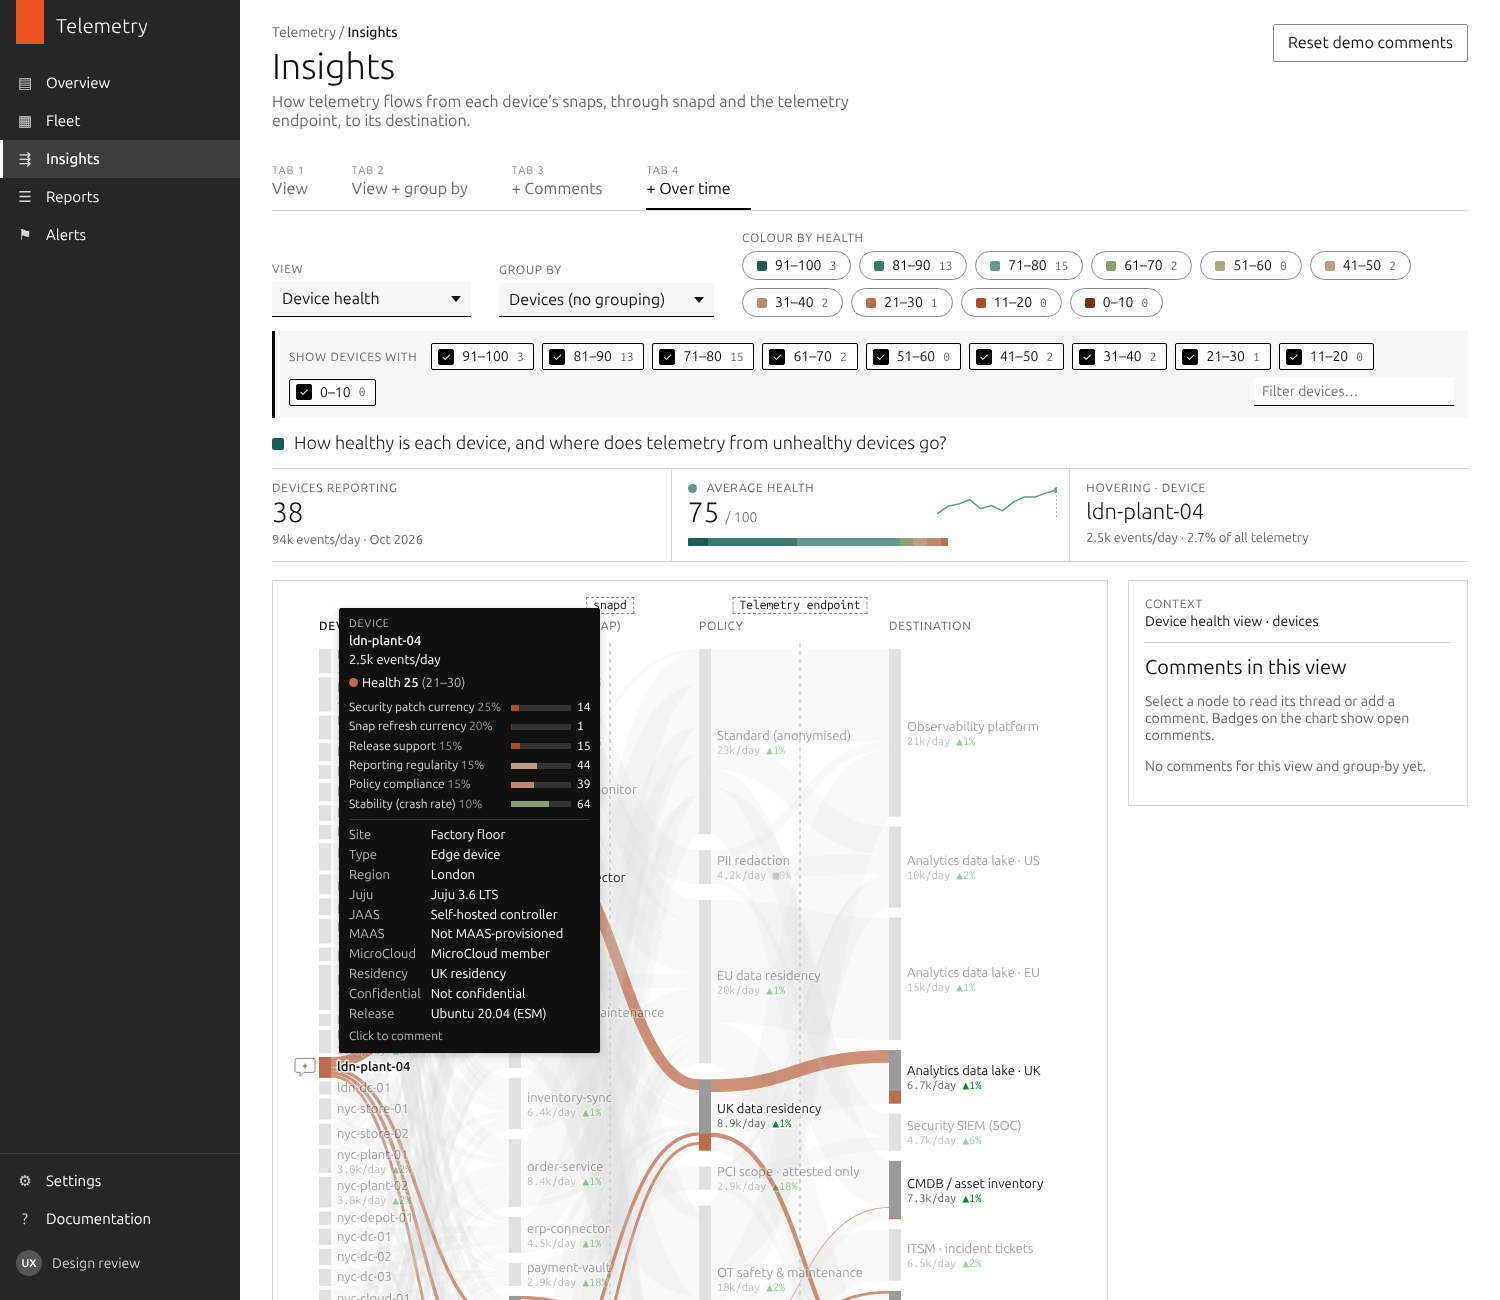
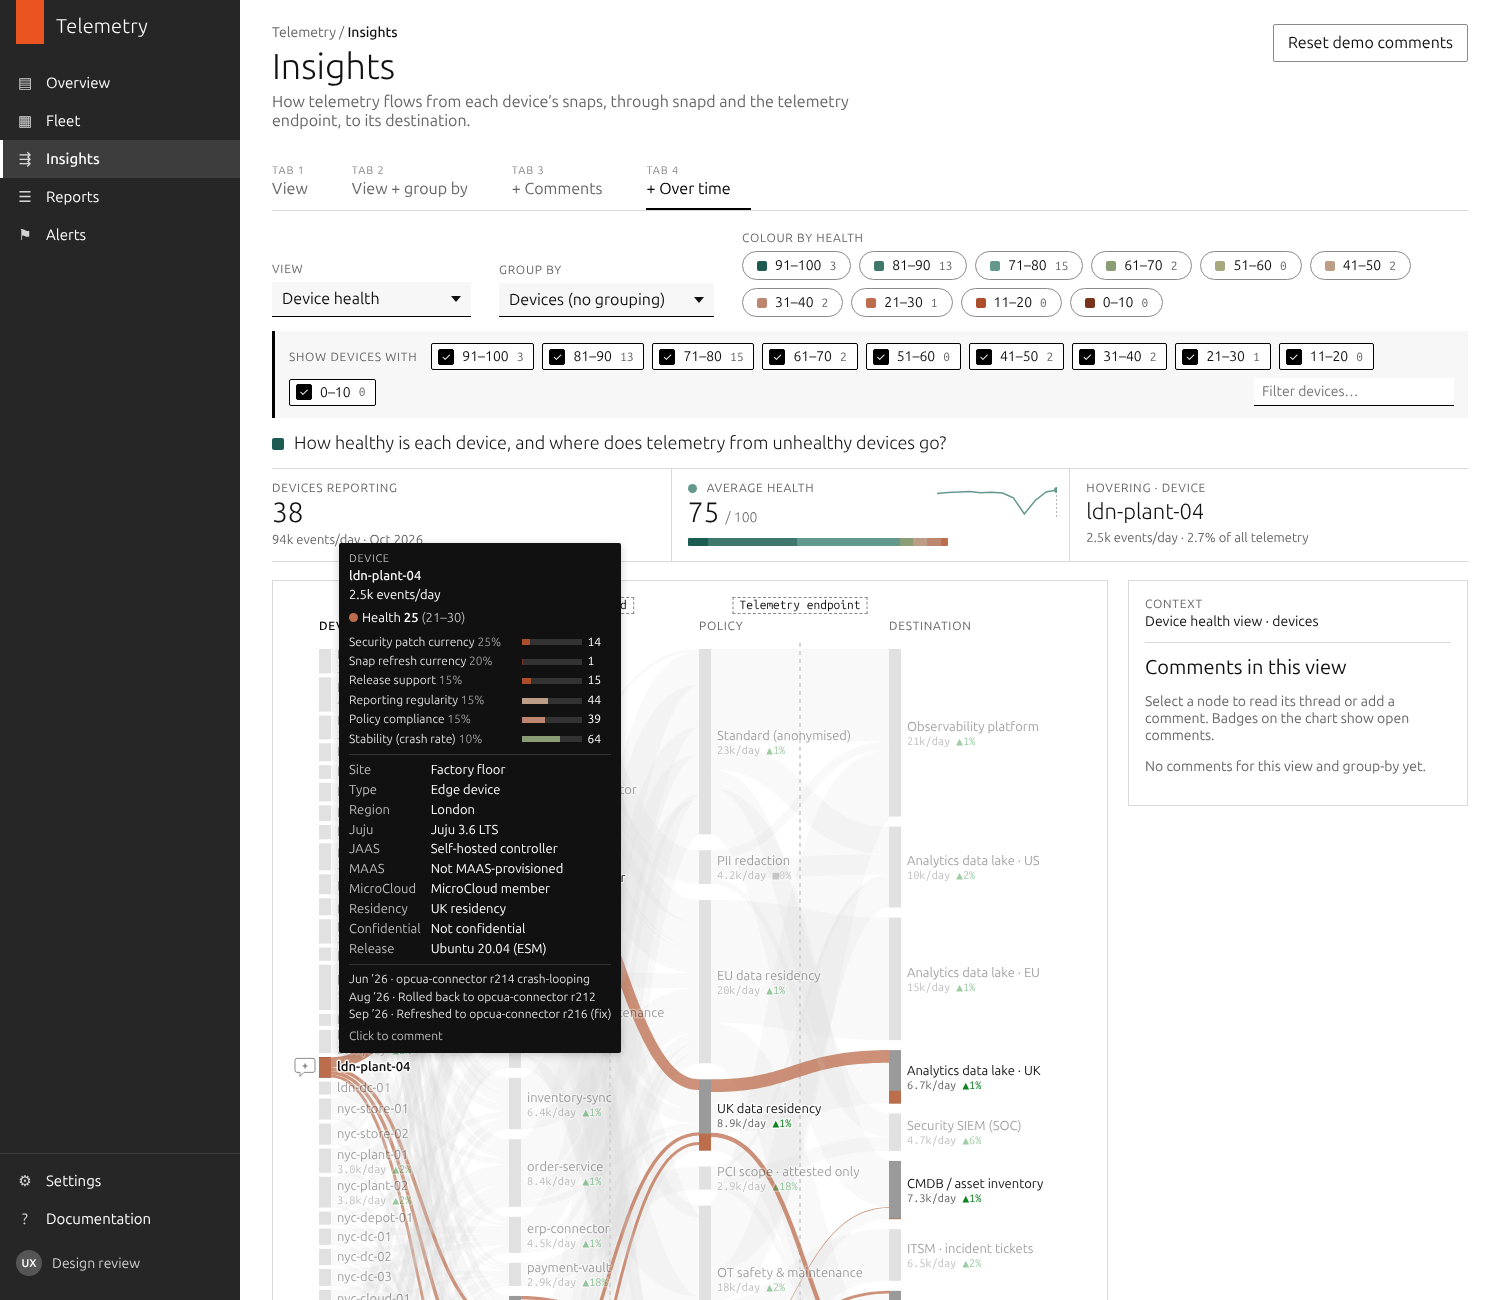
Add a health incident (Jun-Sep 2026) and an SRE comment thread
A bad opcua-connector revision crash-loops on factory devices in June;
a fleet-wide snap refresh hold drags health down everywhere in July
(fleet average 73 -> 56, factories 69 -> 39); factories are rolled back
in August and a fixed revision ships in September. Factory devices log
the events in their history, opcua-connector volume dips accordingly,
and two SREs discuss and close the incident in a thread pinned to those
months (Health view, grouped by Site, Factory floor).

Claude-Session: https://claude.ai/code/session_0156BKrAD5wHGfcWHmuamSMf

Changed region(s): [[0.2147, 0.4, 0.4293, 0.8308], [0.644, 0.3692, 0.7053, 0.4]]

diff --git a/js/comments.js b/js/comments.js
@@ -20,9 +20,28 @@
  */
 (function (TL) {
   'use strict';
-  const KEY = 'tl.insights.comments.v8';
+  const KEY = 'tl.insights.comments.v9';
 
   const SEED = [
+    // SRE incident thread (Health view, grouped by Site, on Factory floor)
+    { anchor: { view: 'health', groupBy: 'site', node: 'site:factory', period: '2026-06' }, createdAt: '2026-06-17T08:42:00Z',
+      author: 'Ana Ribeiro · SRE', body: 'Factory health is falling fast: stability is near zero on most plants and opcua-connector telemetry has halved. Started right after opcua-connector r214 hit stable on Monday. Paging plant IT.' },
+    { anchor: { view: 'health', groupBy: 'site', node: 'site:factory', period: '2026-06' }, createdAt: '2026-06-17T09:15:00Z',
+      author: 'Tom Okafor · SRE', body: 'Confirmed: r214 segfaults on the older PLC firmware, so it’s crash-looping on ldn and sgp plants first. I’ve put a fleet-wide snap refresh hold in place until we know the blast radius.' },
+    { anchor: { view: 'health', groupBy: 'site', node: 'site:factory', period: '2026-07' }, createdAt: '2026-07-08T13:30:00Z',
+      author: 'Ana Ribeiro · SRE', body: 'The hold is hurting now. Snap refresh and patch currency are sliding on every site, not just factories: fleet average is down to 56 from 73. Factories are at 39. We can’t keep a blanket hold much longer.' },
+    { anchor: { view: 'health', groupBy: 'site', node: 'site:factory', period: '2026-07' }, createdAt: '2026-07-08T14:05:00Z',
+      author: 'Tom Okafor · SRE', body: 'Agreed. Plan: pin factories back to r212 with a channel override, then lift the hold for everything except opcua-connector. Rolling back fra-plant-01 first as a canary.' },
+    { anchor: { view: 'health', groupBy: 'site', node: 'site:factory', period: '2026-08' }, createdAt: '2026-08-04T10:20:00Z',
+      author: 'Tom Okafor · SRE', body: 'Rollback to r212 is done on all plants. Stability is back above 70 and the reporting gaps have closed. Hold lifted for every other snap.' },
+    { anchor: { view: 'health', groupBy: 'site', node: 'site:factory', period: '2026-08' }, createdAt: '2026-08-05T09:00:00Z',
+      author: 'Ana Ribeiro · SRE', body: 'Vendor has a fix in r216 on the candidate channel. Running it on fra-plant-01 for two weeks before we promote.' },
+    { anchor: { view: 'health', groupBy: 'site', node: 'site:factory', period: '2026-09' }, createdAt: '2026-09-11T15:40:00Z',
+      author: 'Ana Ribeiro · SRE', body: 'r216 has been clean on the canary for two weeks; promoted to all plants. Factory health is back to 69, the same as before the incident.' },
+    { anchor: { view: 'health', groupBy: 'site', node: 'site:factory', period: '2026-09' }, createdAt: '2026-09-11T16:02:00Z',
+      author: 'Tom Okafor · SRE', body: 'Follow-up from the review: opcua-connector refreshes now go to one canary plant first, with a 7-day soak before the rest. Closing this out.' },
+    { anchor: { view: 'health', groupBy: 'health', node: 'health:31-40', period: '2026-07' }, createdAt: '2026-07-08T13:45:00Z',
+      author: 'Ana Ribeiro · SRE', body: 'Most of this band in July is the opcua-connector incident on factory devices. The full thread is under Group by: Site → Factory floor.' },
     { anchor: { view: 'health', groupBy: 'health', node: 'health:21-30', period: null },
       author: 'Plant IT · London', body: 'This is ldn-plant-04: still on 20.04 and unpatched since the line was retooled. Booked for rebuild next month.' },
     { anchor: { view: 'juju', groupBy: 'juju', node: 'juju:2.9', period: null },

diff --git a/js/data.js b/js/data.js
@@ -323,7 +323,24 @@ window.TL = window.TL || {};
       noise: r
     };
     d.health.noiseByMonth = MONTHS.map(function () { return (d.health.noise() - 0.5) * 8; });
+    if (d.attrs.site === 'factory') {
+      d.changes.push({ month: 7, attrs: {}, note: 'opcua-connector r214 crash-looping' });
+      d.changes.push({ month: 9, attrs: {}, note: 'Rolled back to opcua-connector r212' });
+      d.changes.push({ month: 10, attrs: {}, note: 'Refreshed to opcua-connector r216 (fix)' });
+      d.changes.sort(function (x, y) { return x.month - y.month; });
+    }
   });
+
+  // ---- Fleet incident (Jun–Sep 2026) --------------------------------------
+  // A bad opcua-connector revision (r214) crash-loops on factory devices.
+  // SRE holds snap refreshes fleet-wide to contain it, which drags snap and
+  // patch currency down everywhere. Factories are rolled back in August, and
+  // a fixed revision (r216) ships in September. Month index: Jun = 7.
+  const INCIDENT = {
+    factory: { 7: { stability: 10, reporting: -40 }, 8: { stability: 8, reporting: -45, snaps: -30 }, 9: { stability: 70, snaps: -25 } },
+    fleet: { 8: { snaps: -40, patch: -18 }, 9: { snaps: -18, patch: -8 }, 10: { snaps: -6 } },
+    volume: { 7: 0.45, 8: 0.4, 9: 0.85 } // share of opcua-connector telemetry still arriving
+  };
   function healthAt(d, a, m) {
     const h = d.health, clamp = function (x) { return Math.max(0, Math.min(100, x)); };
     const parts = {
@@ -334,6 +351,11 @@ window.TL = window.TL || {};
       policy: h.policy != null ? h.policy : (REGION_SOV[a.region] && a.sovereignty === 'none') ? 55 : a.consent === 'optout' ? 60 : 95,
       stability: h.incident === m ? 5 : clamp(h.stability + h.noiseByMonth[m])
     };
+    const fi = INCIDENT.fleet[m], fa = a.site === 'factory' && INCIDENT.factory[m];
+    if (fi) Object.keys(fi).forEach(function (k) { parts[k] = clamp(parts[k] + fi[k]); });
+    if (fa) Object.keys(fa).forEach(function (k) {
+      parts[k] = k === 'stability' ? Math.min(parts[k], fa[k]) : clamp(parts[k] + fa[k]);
+    });
     let score = 0;
     HEALTH_COMPONENTS.forEach(function (c) { score += parts[c.id] * c.weight; });
     return { score: Math.round(clamp(score)), parts: parts };
@@ -401,7 +423,7 @@ window.TL = window.TL || {};
       const vol = d.scale * Math.pow(1 + d.growth, m);
       publishersFor(d, a).forEach(function (pub) {
         const r = route(a, pub);
-        const base = BASE_RATE[pub] * vol;
+        const base = BASE_RATE[pub] * vol * (pub === 'plc' && INCIDENT.volume[m] ? INCIDENT.volume[m] : 1);
         r.to.forEach(function (t) {
           facts.push(Object.assign({ device: d.id, publisher: pub, policy: r.policy, destination: t[0], rule: r.id, count: base * t[1] }, a));
         });

diff --git a/README.md b/README.md
@@ -77,6 +77,21 @@ The intermediate steps were interpolated in OKLCH. Lightness mirrors either side
 - The KPI shows the fleet's average score, with its monthly trend on the Over time tab.
 - In the Health view, each device's tooltip breaks the score down by component.
 
+### Health incident (Jun–Sep 2026)
+
+The data includes a fleet incident to show change over time. All of it is defined in `INCIDENT` in `js/data.js`.
+
+| Month | What happens | Fleet avg | Factories |
+|---|---|---|---|
+| Jun | `opcua-connector` r214 crash-loops on factory devices; their telemetry drops by more than half | 69 | 56 |
+| Jul | A fleet-wide snap refresh hold contains it, but snap and patch currency slide everywhere | **56** | **39** |
+| Aug | Factories are rolled back to r212; the hold is lifted for everything else | 67 | 58 |
+| Sep | Fixed r216 ships after a canary soak; health is back to pre-incident levels | 73 | 69 |
+
+Before the incident, the fleet average was 73 and factories averaged 69.
+
+Two SREs discuss and resolve the incident in a comment thread. To find it, choose **Device health** and group by **Site**, then open **Factory floor**. On the Over time tab, the thread's comments show as markers from June to September.
+
 ## Views
 
 The view selector is a dropdown. It starts on **Neutral**, where every flow is one colour (palette slate) with no breakdown.

diff --git a/CLAUDE.md b/CLAUDE.md
@@ -19,6 +19,8 @@ Prototype of the **Insights** page (Telemetry product): a Sankey shown as four d
 - Health = composite 0–100 "magic number" from weighted components, shown in bands of 10 (0–10, 11–20 … 91–100).
 - Health uses an adjacent/gradient colour scale (diverging rust → taupe/olive → teal, derived from the design palette), not the contrasting categorical palette.
 
+- Health data includes a deliberate incident (Jun–Sep 2026, opcua-connector r214 crash loop + fleet-wide refresh hold) with a two-SRE comment thread on Health · by Site · Factory floor.
+
 ## Sankey rules agreed with the user
 - Columns are fixed: **Device → Publisher → Policy → Destination**. Only column 1 changes.
 - A **view** colours devices (and their flows end to end) by one attribute, e.g. Juju version. Views never change columns.
